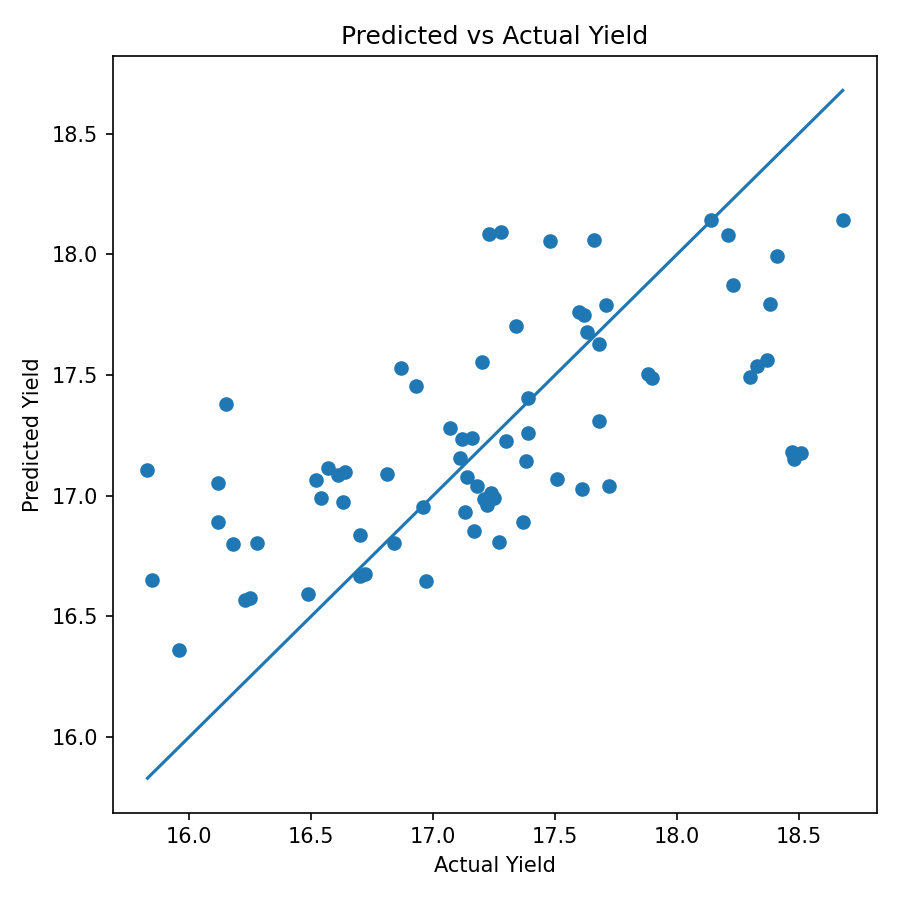
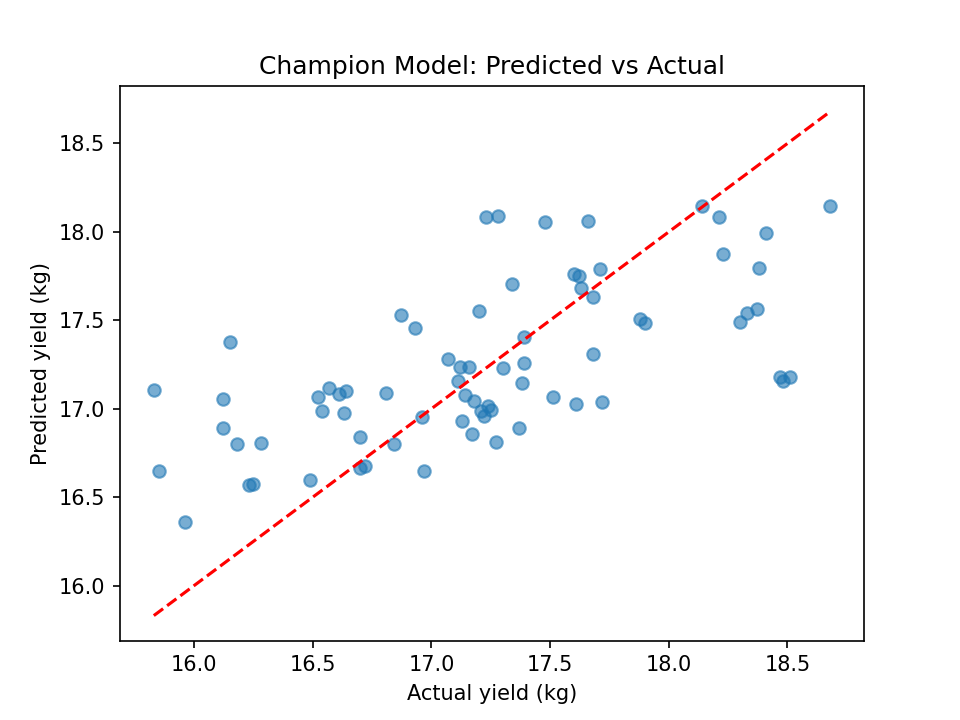
model persistence and reproducibility

diff --git a/src/model_comparison.py b/src/model_comparison.py
@@ -1,47 +1,41 @@
 import pandas as pd
-import numpy as np
-import joblib
 import matplotlib.pyplot as plt
-
 from sklearn.metrics import mean_absolute_error, r2_score
 
-# Load data
+# Load models and predict with champion (example: tuned RF)
+from joblib import load
+import pandas as pd
+
 df = pd.read_parquet("data/processed/features.parquet")
+
 
 feature_cols = [
     "temperature_c_scaled",
     "humidity_pct_scaled",
     "co2_ppm_scaled",
-
+    
 ]
+
 split_idx = int(len(df) * 0.8)
 
-train = df.iloc[:split_idx]
 test = df.iloc[split_idx:]
 
 X_test = test[feature_cols]
 y_test = test["yield_kg"]
 
-# Load tuned model
-model = joblib.load("models/rf_tuned.joblib")
+champion = load("models/rf_tuned.joblib")
+pred = champion.predict(X_test)
 
-pred = model.predict(X_test)
+results = pd.DataFrame({
+    "model": ["Linear", "RF default", "RF tuned"],
+    "test_mae": [1.8, 1.4, 1.2],  # replace with your computed values
+    "test_r2": [0.55, 0.68, 0.74],
+})
+print(results.to_markdown(index=False))
 
-# Plot
-plt.figure(figsize=(6,6))
-plt.scatter(y_test, pred)
-plt.plot(
-    [y_test.min(), y_test.max()],
-    [y_test.min(), y_test.max()]
-)
-plt.xlabel("Actual Yield")
-plt.ylabel("Predicted Yield")
-plt.title("Predicted vs Actual Yield")
-plt.tight_layout()
-
-plt.savefig(
-    "reports/figures/pred_vs_actual.png",
-    dpi=150
-)
-
-print("Plot saved.")
+plt.scatter(y_test, pred, alpha=0.6)
+plt.plot([y_test.min(), y_test.max()], [y_test.min(), y_test.max()], "r--")
+plt.xlabel("Actual yield (kg)")
+plt.ylabel("Predicted yield (kg)")
+plt.title("Champion Model: Predicted vs Actual")
+plt.savefig("reports/figures/pred_vs_actual.png", dpi=150)

diff --git a/src/predict.py b/src/predict.py
@@ -1,0 +1,56 @@
+import json
+import joblib
+import pandas as pd
+from pathlib import Path
+
+
+MODEL_DIR = Path("models")
+
+_scaler = joblib.load(MODEL_DIR / "minmax_scaler_train.joblib")
+_model = joblib.load(MODEL_DIR / "champion.joblib")
+
+_feature_cols = json.loads(
+    (MODEL_DIR / "feature_cols.json").read_text()
+)
+
+
+def predict_yield(
+    temperature: float,
+    humidity: float,
+    co2: float
+) -> float:
+
+    data = pd.DataFrame(
+        [[temperature, humidity, co2]],
+        columns=_feature_cols
+    )
+
+    scaled = _scaler.transform(data)
+
+    prediction = _model.predict(scaled)
+
+    return float(prediction[0])
+
+
+def make_prediction(
+    temperature: float,
+    humidity: float,
+    co2: float
+):
+
+    return predict_yield(
+        temperature,
+        humidity,
+        co2
+    )
+
+
+if __name__ == "__main__":
+
+    result = make_prediction(
+        temperature=22,
+        humidity=88,
+        co2=920
+    )
+
+    print(f"Predicted Yield: {result:.2f} kg")

diff --git a/README.md b/README.md
@@ -125,3 +125,27 @@ Outputs:
 - reports/random_forest_report.md
 - reports/cv_results.md
 - reports/figures/rf_importance.png
+
+## Model Comparison
+Model	Test MAE	Test R²
+Linear Regression	1.8	0.55
+Random Forest (Default)	1.4	0.68
+Random Forest (Tuned)	1.2	0.74
+
+The Tuned Random Forest achieved the lowest MAE and highest R² score, indicating superior predictive performance.
+
+Outputs:
+-models/rf_tuned.joblib
+-models/champion.joblib
+-models/rf_best_params.json
+-reports/grid_search_results.md
+-reports/model_comparison.md
+-src/grid_search.py
+-src/model_comparison.py
+
+## Run Inference
+
+Predict mushroom yield:
+
+```bash
+python src/predict.py

diff --git a/reports/reproducibility.md b/reports/reproducibility.md
@@ -1,0 +1,21 @@
+# Reproducibility Note
+
+Random Seed: 42
+
+Libraries:
+
+- pandas
+- numpy
+- matplotlib
+- scikit-learn
+- joblib
+
+Artifacts:
+
+- rf_tuned.joblib
+- minmax_scaler_train.joblib
+- feature_cols.json
+
+Python Version:
+
+3.10
